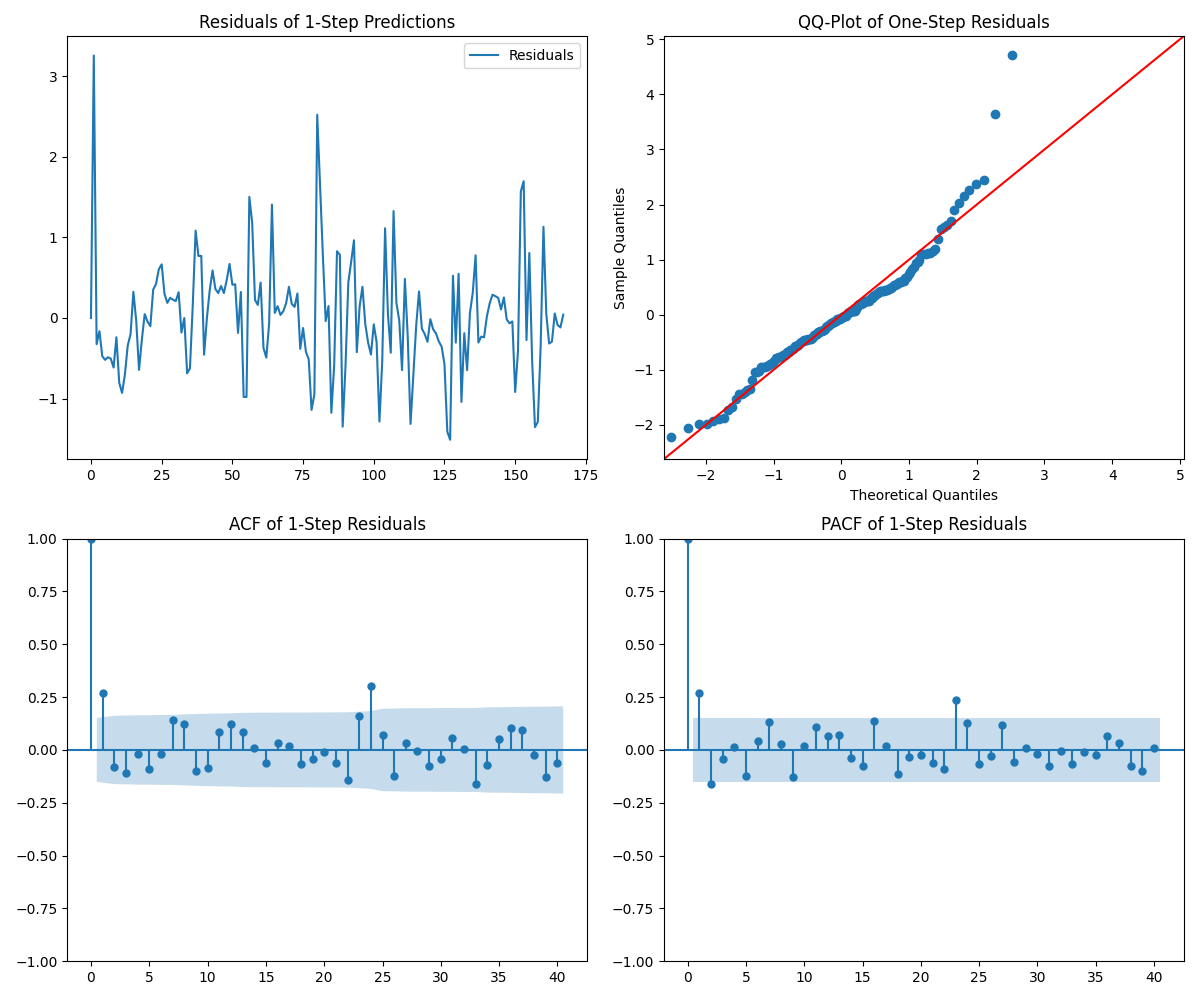
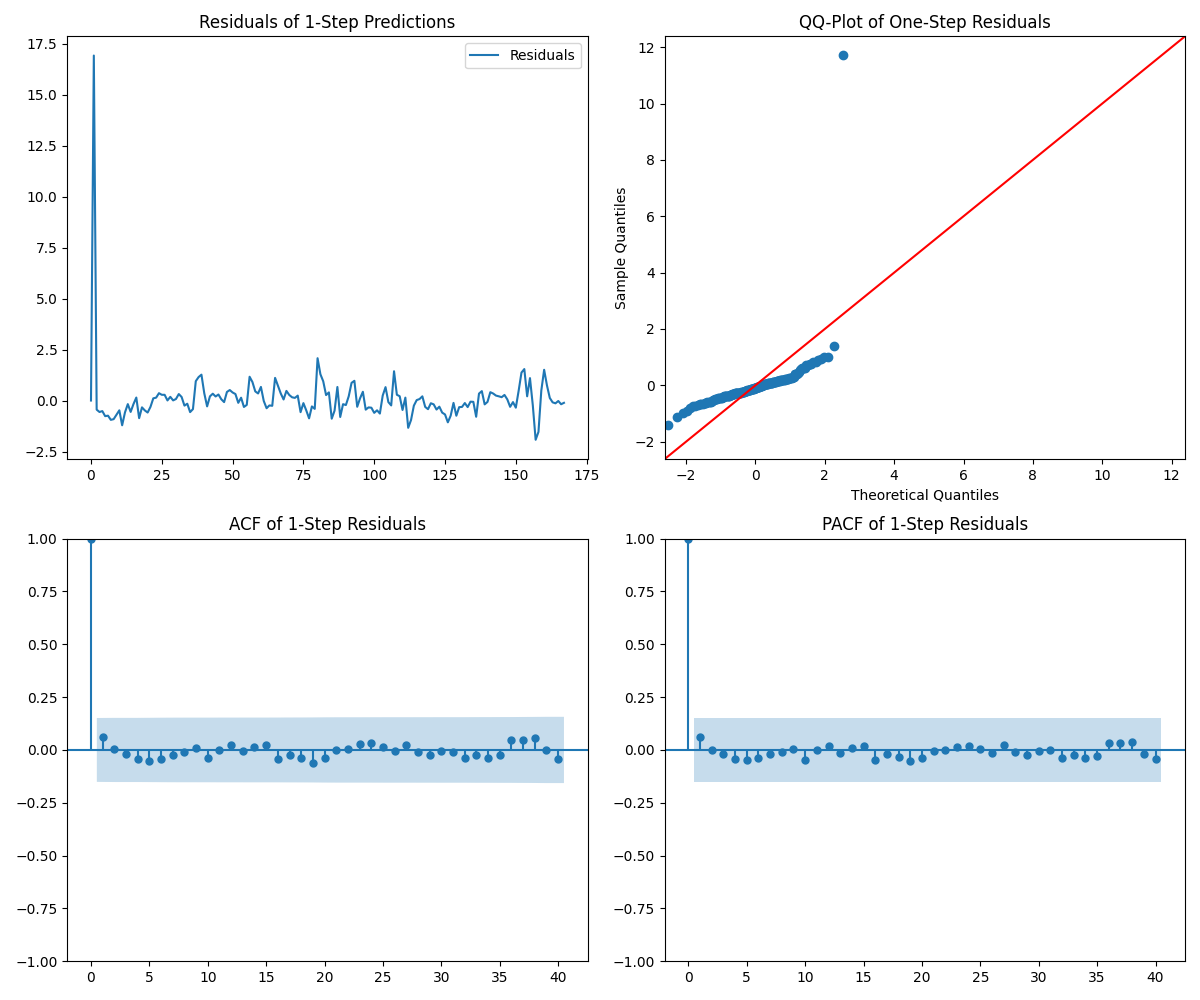
Newest

diff --git a/harh/exercise2_3_harh.py b/harh/exercise2_3_harh.py
@@ -1,0 +1,216 @@
+from paths import PARENT_DIR
+import numpy as np
+import pandas as pd
+from scipy.optimize import minimize
+import matplotlib.pyplot as plt
+from statsmodels.graphics.tsaplots import plot_acf, plot_pacf
+import statsmodels.api as sm
+
+raw = pd.read_csv(f"{PARENT_DIR}/transformer_data.csv")
+
+# ──────────────────────────────────────────────────────────────────────────────
+# 2-dimensional state-space model
+#   xₜ  ∈ ℝ²   (latent state: e.g. [core-temp, temp-drift])
+#   yₜ  ∈ ℝ    (single measured output)
+#
+#   xₜ   =  A · xₜ₋₁  +  B · uₜ₋₁  +  wₜ        ,  wₜ ~  𝓝(0, Q)
+#   yₜ   =  C · xₜ    +  vₜ                       ,  vₜ ~  𝓝(0, R)
+#
+# Dimensions
+#   A : 2×2               (4 free elements)
+#   B : 2×3  (Ta,S,I)     (6 free elements)
+#   C : 1×2               (2 free elements)
+#   Q : diag(q₁,q₂)       (2 free elements)   ←  keep diagonal to avoid over-
+#   P0: diag(p₁,p₂)       (2 free elements)      parametrisation at first
+#   R : scalar            (1 free element)
+#   X0: 2-vector          (2 free elements)
+# ──────────────────────────────────────────────────────────────────────────────
+import numpy as np
+
+def unpack(params):
+    """Turn  *flat*  parameter vector -> individual matrices/vectors."""
+    A  = params[0:4].reshape(2, 2)
+    B  = params[4:10].reshape(2, 3)
+    C  = params[10:12].reshape(1, 2)
+    q1, q2          = params[12:14]
+    r               = params[14]
+    X0              = params[15:17]
+    p1, p2          = params[17:19]
+    Q  = np.diag([q1, q2])
+    P0 = np.diag([p1, p2])
+    return A, B, C, Q, r, X0, P0
+
+
+def kf_logLik_2d(params, y, U):
+    """
+    2-D Kalman filter; returns   −log ℓ  (so we can minimise).
+    """
+    A, B, C, Q, R, x0, P_filt = unpack(params)
+    n = len(y)
+
+    # Pre-allocate
+    x_pred = np.zeros((n, 2))
+    P_pred = np.zeros((n, 2, 2))
+    innovations = np.zeros(n)
+    S          = np.zeros(n)
+    x_filt = np.zeros(n)  # X_hat_{t|t}
+    x_filt[0] = x0
+    ll = 0.0                                   # log-likelihood accumulator
+
+    for t in range(1, n):
+        # ───── Prediction step ───────────────────────────────────────────────
+        x_pred[t]   = A @ x_filt[t-1]  +  B @ U[t-1]
+        P_pred[t]   = A @ P_filt[t-1] @ A.T + Q
+
+        # ───── Innovation (measurement residual) ────────────────────────────
+        innovations[t] = y[t] - (C @ x_pred[t])[0]
+        S[t]           = (C @ P_pred[t] @ C.T)[0, 0] + R
+
+        # ───── Kalman gain ──────────────────────────────────────────────────
+        K   = P_pred[t] @ C.T / S[t]           #  (2×1)
+
+        # ───── Update step ──────────────────────────────────────────────────
+        x_filt         = x_pred[t] + K.flatten() * innovations[t]
+        P_filt         = (np.eye(2) - K @ C) @ P_pred[t]
+
+        # accumulate (Gaussian) log-lik
+        ll += -0.5 * (np.log(2*np.pi*S[t]) + innovations[t]**2 / S[t])
+
+    return x_pred, P_pred, innovations, S, x_filt, P_filt, -ll                                 # NEGATIVE log-lik for minimise
+
+
+def objective(params, y, U):
+    _, _, _, _, _, _, L =kf_logLik_2d(params, y, U)
+    return L
+
+
+def estimate_2d(df, start_guess, bounds):
+    y = df["Y"].values
+    U = df[["Ta", "S", "I"]].values.T      # shape (3, n) for matrix algebra
+    res = minimize(objective,
+                   x0=start_guess, args=(y, U),
+                   method="L-BFGS-B", bounds=bounds)
+    return res
+
+rng = np.random.default_rng(42)
+
+A0  = rng.uniform(-0.5, 0.5, size=(2, 2))
+B0  = rng.uniform(-1, 1,  size=(2, 3))
+C0  = rng.uniform(-1, 1,  size=(1, 2))
+Q0  = np.full(2,  1)          # small process noise
+R0  = 1
+X00 = rng.normal([20.0, 0.0], [1.0, 0.1])
+P00 = np.full(2,  10.0)
+
+start = np.concatenate([A0.ravel(), B0.ravel(), C0.ravel(),
+                        Q0, [R0], X00, P00])
+
+bounds =  [(-1, 1)]*4            # A
+bounds += [(-2, 2)]*6            # B
+bounds += [(-1, 1)]*2            # C
+bounds += [(1e-8, None)]*2       # Q (diag)
+bounds += [(1e-8, None)]         # R
+bounds += [(0, 100)]*2           # X0
+bounds += [(1e-8, 100)]*2        # P0 (diag)
+
+df = raw
+result = estimate_2d(raw, start, bounds)
+print(result.success, result.fun, result.x)
+
+# Filter once more with the MLEs so you can get smoothed states, CIs, etc.
+y     = raw["Y"].values
+U     = raw[["Ta", "S", "I"]].values.T
+negLL = kf_logLik_2d(result.x, y, U)         # also gives you ŷ, P̂, ...
+
+x_pred, P_pred, innovations, S, x_filt, P_filt, neglogLik = kf_logLik_2d(result.x,y,U)
+print("done")
+
+Y_pred = result.x[4]*x_pred
+R = result.x[6]
+C = result.x[4]
+stderr = np.sqrt(C**2 * P_pred + R)
+Y_pred_lower = Y_pred-1.96*stderr
+Y_pred_higher  =  Y_pred+1.96*stderr
+
+#Simple conf interval with true y
+plt.plot(Y_pred_lower, label = "Conf interval", color = "black", linestyle='-',linewidth=0.5)   
+plt.plot(Y_pred_higher, color = "black", linestyle='-',linewidth=0.5)
+plt.plot(df["Y"], label="True $y_t$")
+plt.plot(Y_pred, label="$\\hat{Y}_{t+1|t}$", linestyle='-.')
+plt.legend()
+plt.title("Kalman Filtering Results")
+plt.savefig(f"{PARENT_DIR}/images/2.2/Conf_interval_1step.png")
+plt.clf()
+
+#Simple plot of innovation
+plt.plot(innovations, label = "residuals")
+plt.title("Residuals of 1 step predictions")
+plt.savefig(f"{PARENT_DIR}/images/2.2/Residuals.png")
+plt.clf()
+
+#Simple plot of ACF PACF of residuals
+lags = 40  # or however many lags you want
+fig, axes = plt.subplots(2, 1, figsize=(8, 6))
+
+# ACF
+plot_acf(innovations, lags=lags, ax=axes[0])
+axes[0].set_title("ACF of 1-step residuals")
+
+# PACF
+plot_pacf(innovations, lags=lags, ax=axes[1], method="ywm")
+axes[1].set_title("PACF of 1-step residuals")
+
+plt.tight_layout()
+plt.savefig(f"{PARENT_DIR}/images/2.2/ACF_PACF.png")
+# 1) QQ–plot of innovations
+plt.figure()
+sm.qqplot(innovations, line="45", fit=True)
+plt.title("QQ-Plot of One‐Step Residuals")
+plt.savefig(f"{PARENT_DIR}/images/2.2/QQplot_residuals.png")
+plt.clf()
+
+# 2) AIC and BIC
+n = len(y)
+k = len(result.x)
+lnL = -neglogLik
+
+AIC = 2*k - 2*lnL
+BIC = k*np.log(n) - 2*lnL
+
+print(f"AIC = {AIC:.2f}")
+print(f"BIC = {BIC:.2f}")
+
+# (Optionally save to file or DataFrame)
+info = pd.DataFrame({
+    "stat": ["n_obs","n_params","logLik","AIC","BIC"],
+    "value": [n, k, lnL, AIC, BIC]
+})
+info.to_csv(f"{PARENT_DIR}/images/2.2/info_criteria.csv", index=False)
+
+
+# ------------------------------------------------------------------
+# Combined 2 × 2 chart
+# ------------------------------------------------------------------
+lags = 40                 # or whatever you prefer
+fig, axes = plt.subplots(2, 2, figsize=(12, 10))
+(ax_resid, ax_qq), (ax_acf, ax_pacf) = axes
+
+# 1) One‑step residuals
+ax_resid.plot(innovations, label="Residuals")
+ax_resid.set_title("Residuals of 1‑Step Predictions")
+ax_resid.legend()
+
+# 2) QQ–plot of residuals
+sm.qqplot(innovations, line="45", fit=True, ax=ax_qq)   # send it to the right axes
+ax_qq.set_title("QQ-Plot of One-Step Residuals")
+
+# 3) ACF of residuals
+plot_acf(innovations, lags=lags, ax=ax_acf)
+ax_acf.set_title("ACF of 1‑Step Residuals")
+
+# 4) PACF of residuals
+plot_pacf(innovations, lags=lags, ax=ax_pacf, method="ywm")
+ax_pacf.set_title("PACF of 1‑Step Residuals")
+
+plt.tight_layout()
+plt.savefig(f"{PARENT_DIR}/images/2.2/diagnostic_2x2.png")

diff --git a/harh/exercise2_2_harh.py b/harh/exercise2_2_harh.py
@@ -35,7 +35,7 @@ def kf_logLik_dt(params,y,U):
     L=0
     for t in range(1, n):
         # Predict
-        x_pred[t] = A * x_filt[t-1] + B.dot(U[t-1])
+        x_pred[t] = A * x_filt[t-1] + B.dot(U[t-1]) 
         P_pred[t] = A * P_filt[t-1] * A.transpose() + Q
 
         # Innovation
@@ -83,8 +83,8 @@ bounds = [
 A = (np.random.rand()-0.5)*2
 B = (np.random.rand(3))*2
 C = (np.random.rand()-0.5)*2
-Q = (np.random.rand()-0.5)*2
-R = (np.random.rand()-0.5)*2
+Q = 1
+R = 1
 X0 = np.random.rand()+19.5
 P0 = 200
 df = raw
@@ -94,7 +94,6 @@ start = np.concatenate([
     [C, Q, R,  # 4–6
      X0, P0]   # 7–8
 ])
-np.array([0.9, 0.1, 0.1, 0.1, 1.0, 0.1, 0.1, 20.0])
 result = estimate_dt(df,start,bounds)
 
 y = df["Y"].values
